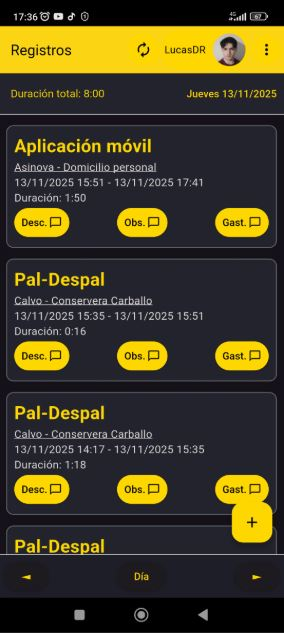
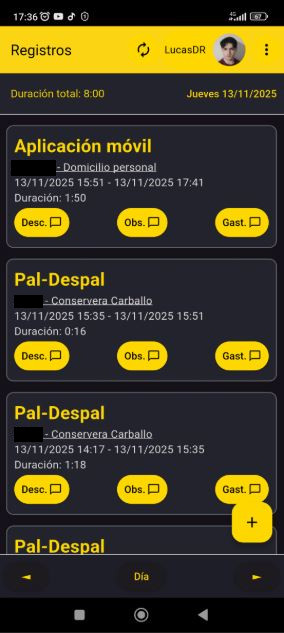
Imágenes censuradas

Changed region(s): [[0.0282, 0.2401, 0.1972, 0.3002], [0.0282, 0.6603, 0.169, 0.7204], [0.0282, 0.4502, 0.169, 0.5103]]

diff --git a/src/Componentes/Inicio.tsx b/src/Componentes/Inicio.tsx
@@ -8,7 +8,7 @@ import { ImMobile } from "react-icons/im"
 import { IoIosSettings } from "react-icons/io"
 import Carrusel from './Carrusel'
 import web from '../img/CapturaWEB.png'
-import appweb from '../img/CapturaAPPWEB.png'
+import appweb from '../img/CapturaAPPWEB.jpg'
 import streamlit from '../img/Streamlit.jpg'
 import consultoria from '../img/ConsultorIA.png'
 import mobil from '../img/CapturaAPP.jpg'

diff --git a/src/Componentes/Proyectos.jsx b/src/Componentes/Proyectos.jsx
@@ -1,5 +1,5 @@
 import web from '../img/CapturaWEB.png'
-import appweb from '../img/CapturaAPPWEB.png'
+import appweb from '../img/CapturaAPPWEB.jpg'
 import streamlit from '../img/Streamlit.jpg'
 import mobil from '../img/CapturaAPP.jpg'
 import api from '../img/CapturaAPI.jpg'
